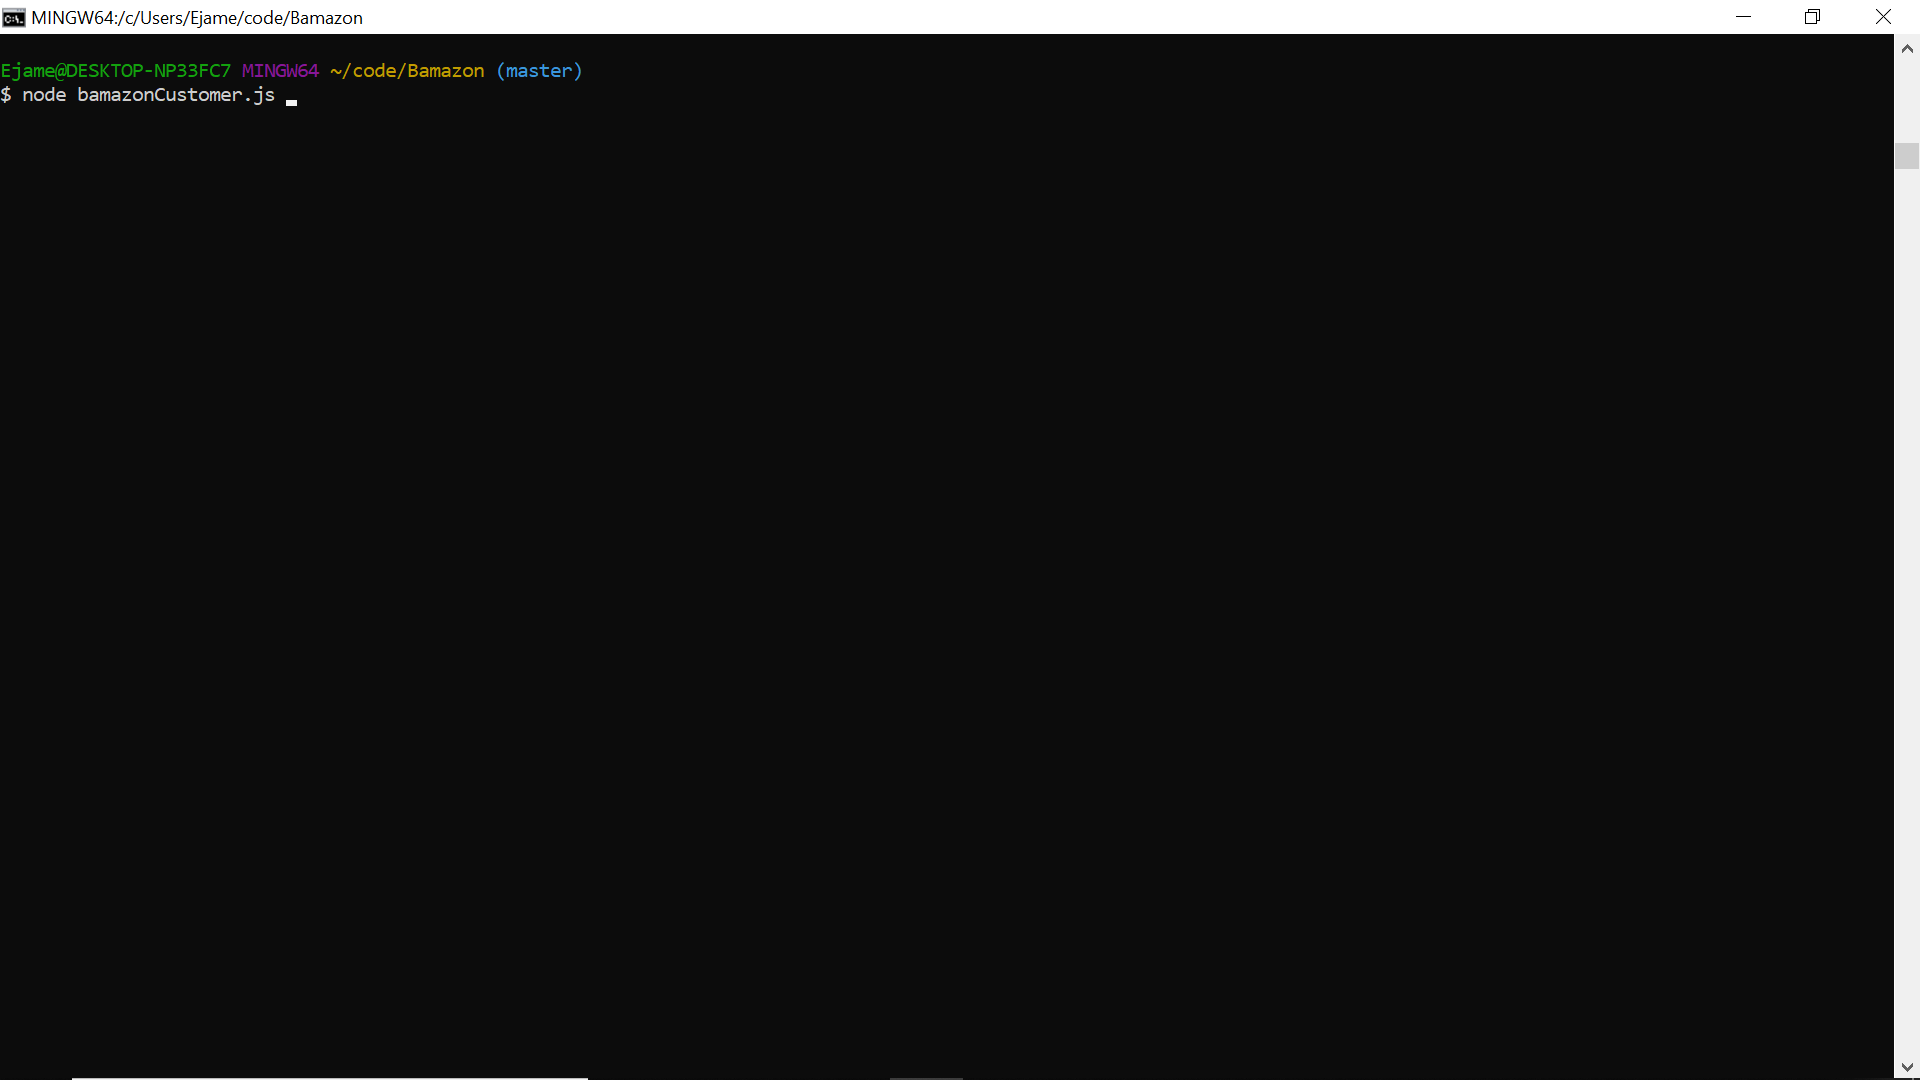
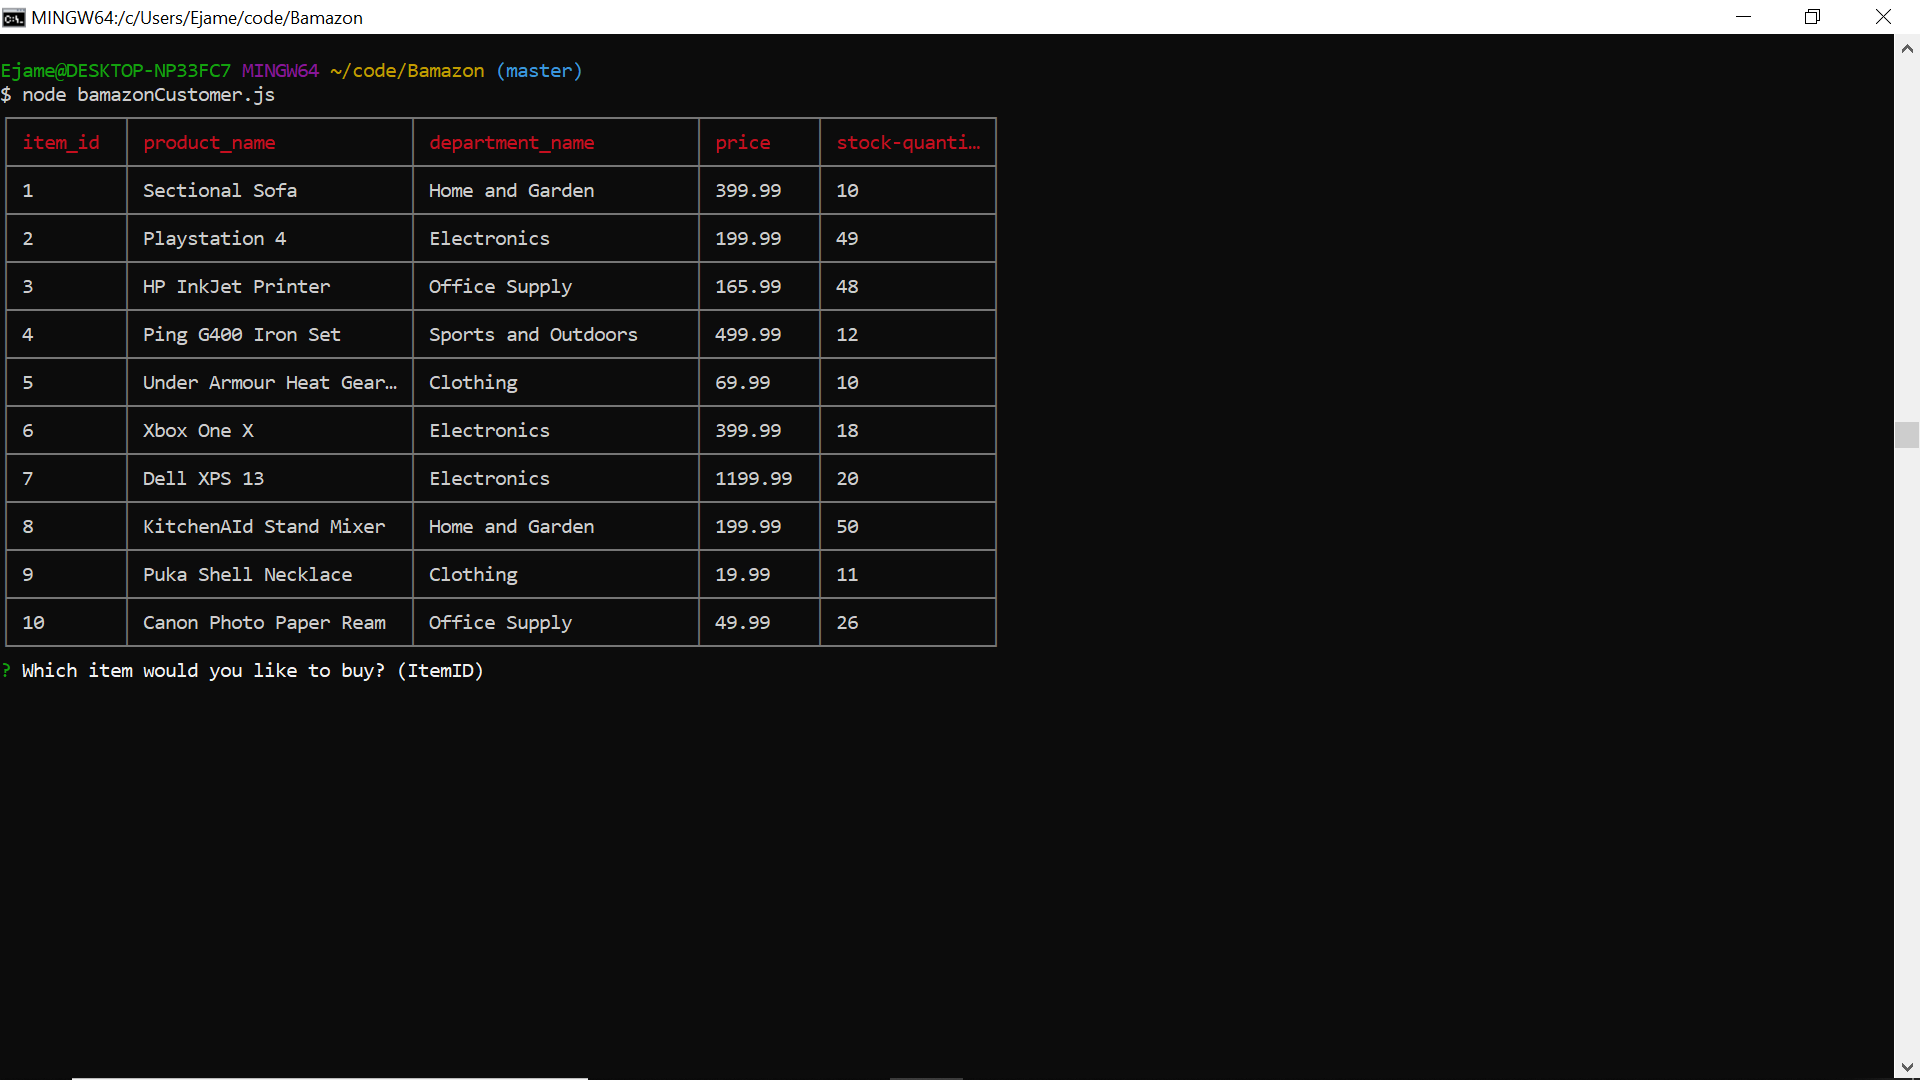
updated READme

diff --git a/README.md b/README.md
@@ -16,5 +16,8 @@ In the CLI `npm init -y` and then install each package with `npm install [packag
 Create a table called "products" in mysql using MySQL using the provided schema and fill it with content.
 Open app in the CLI with `node bamazonCustomer.js`
 
-#### Commands
+Follow prompts to navigate site.
+
+<img src="/images/node_1.png">
+
 
